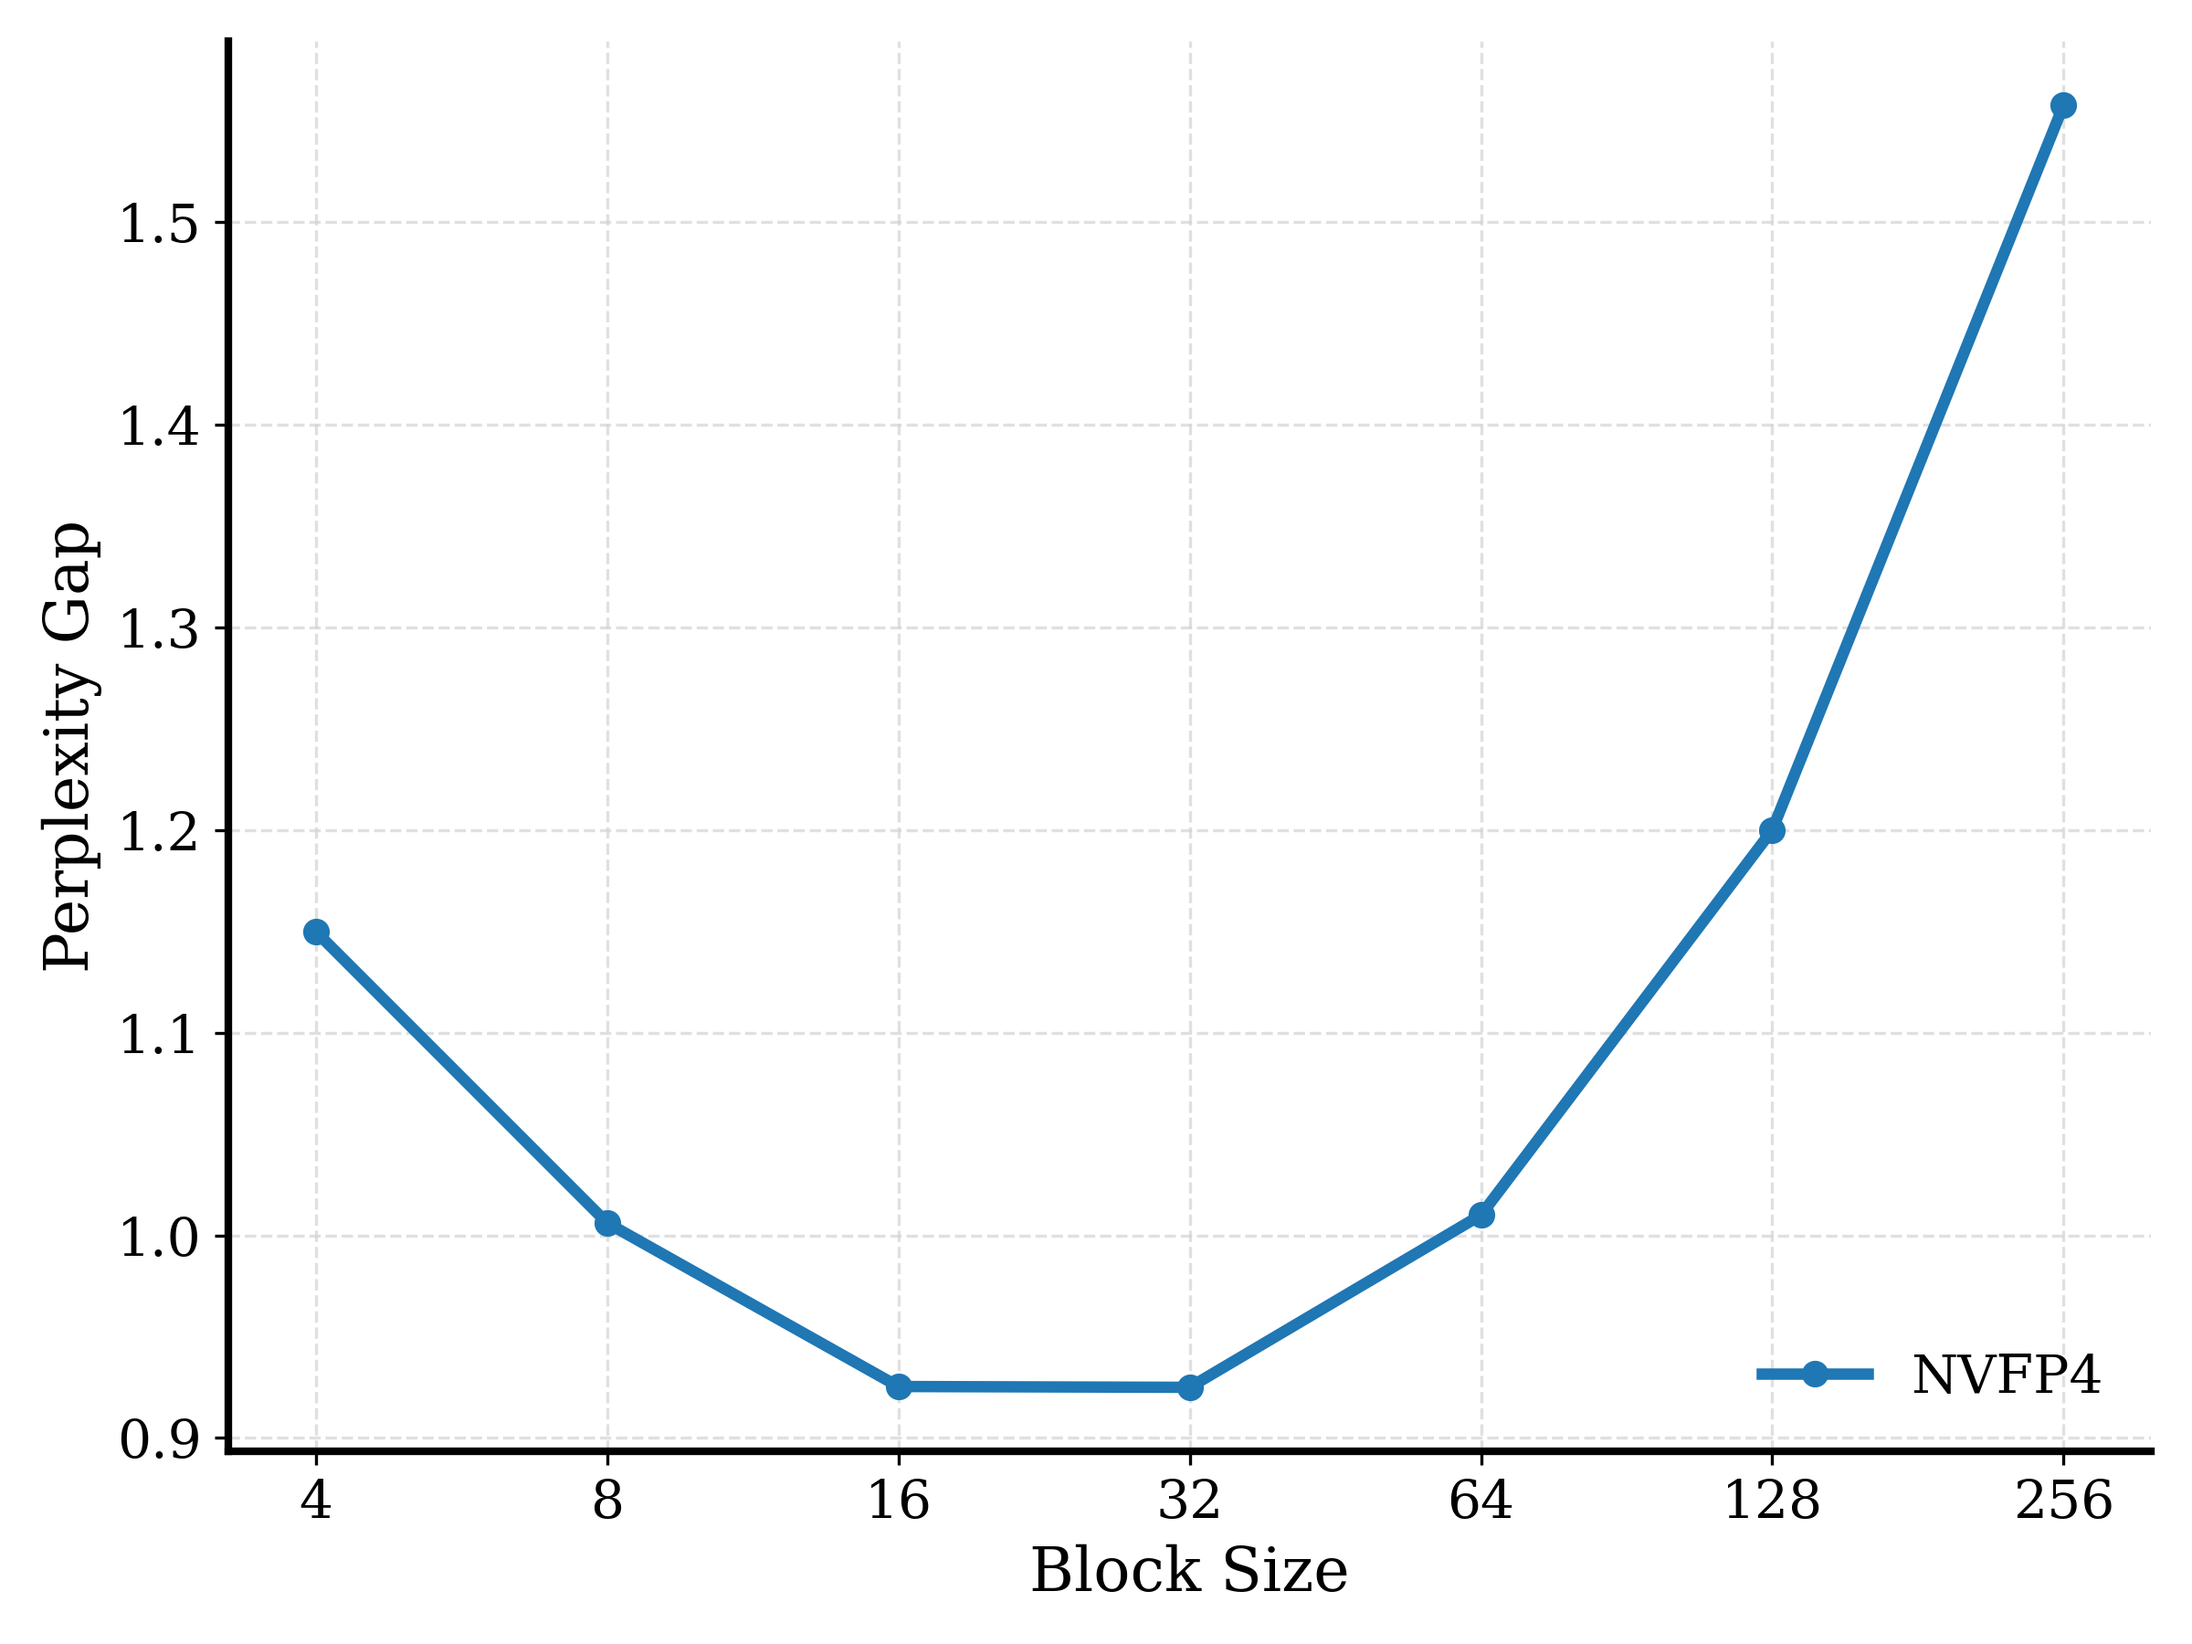
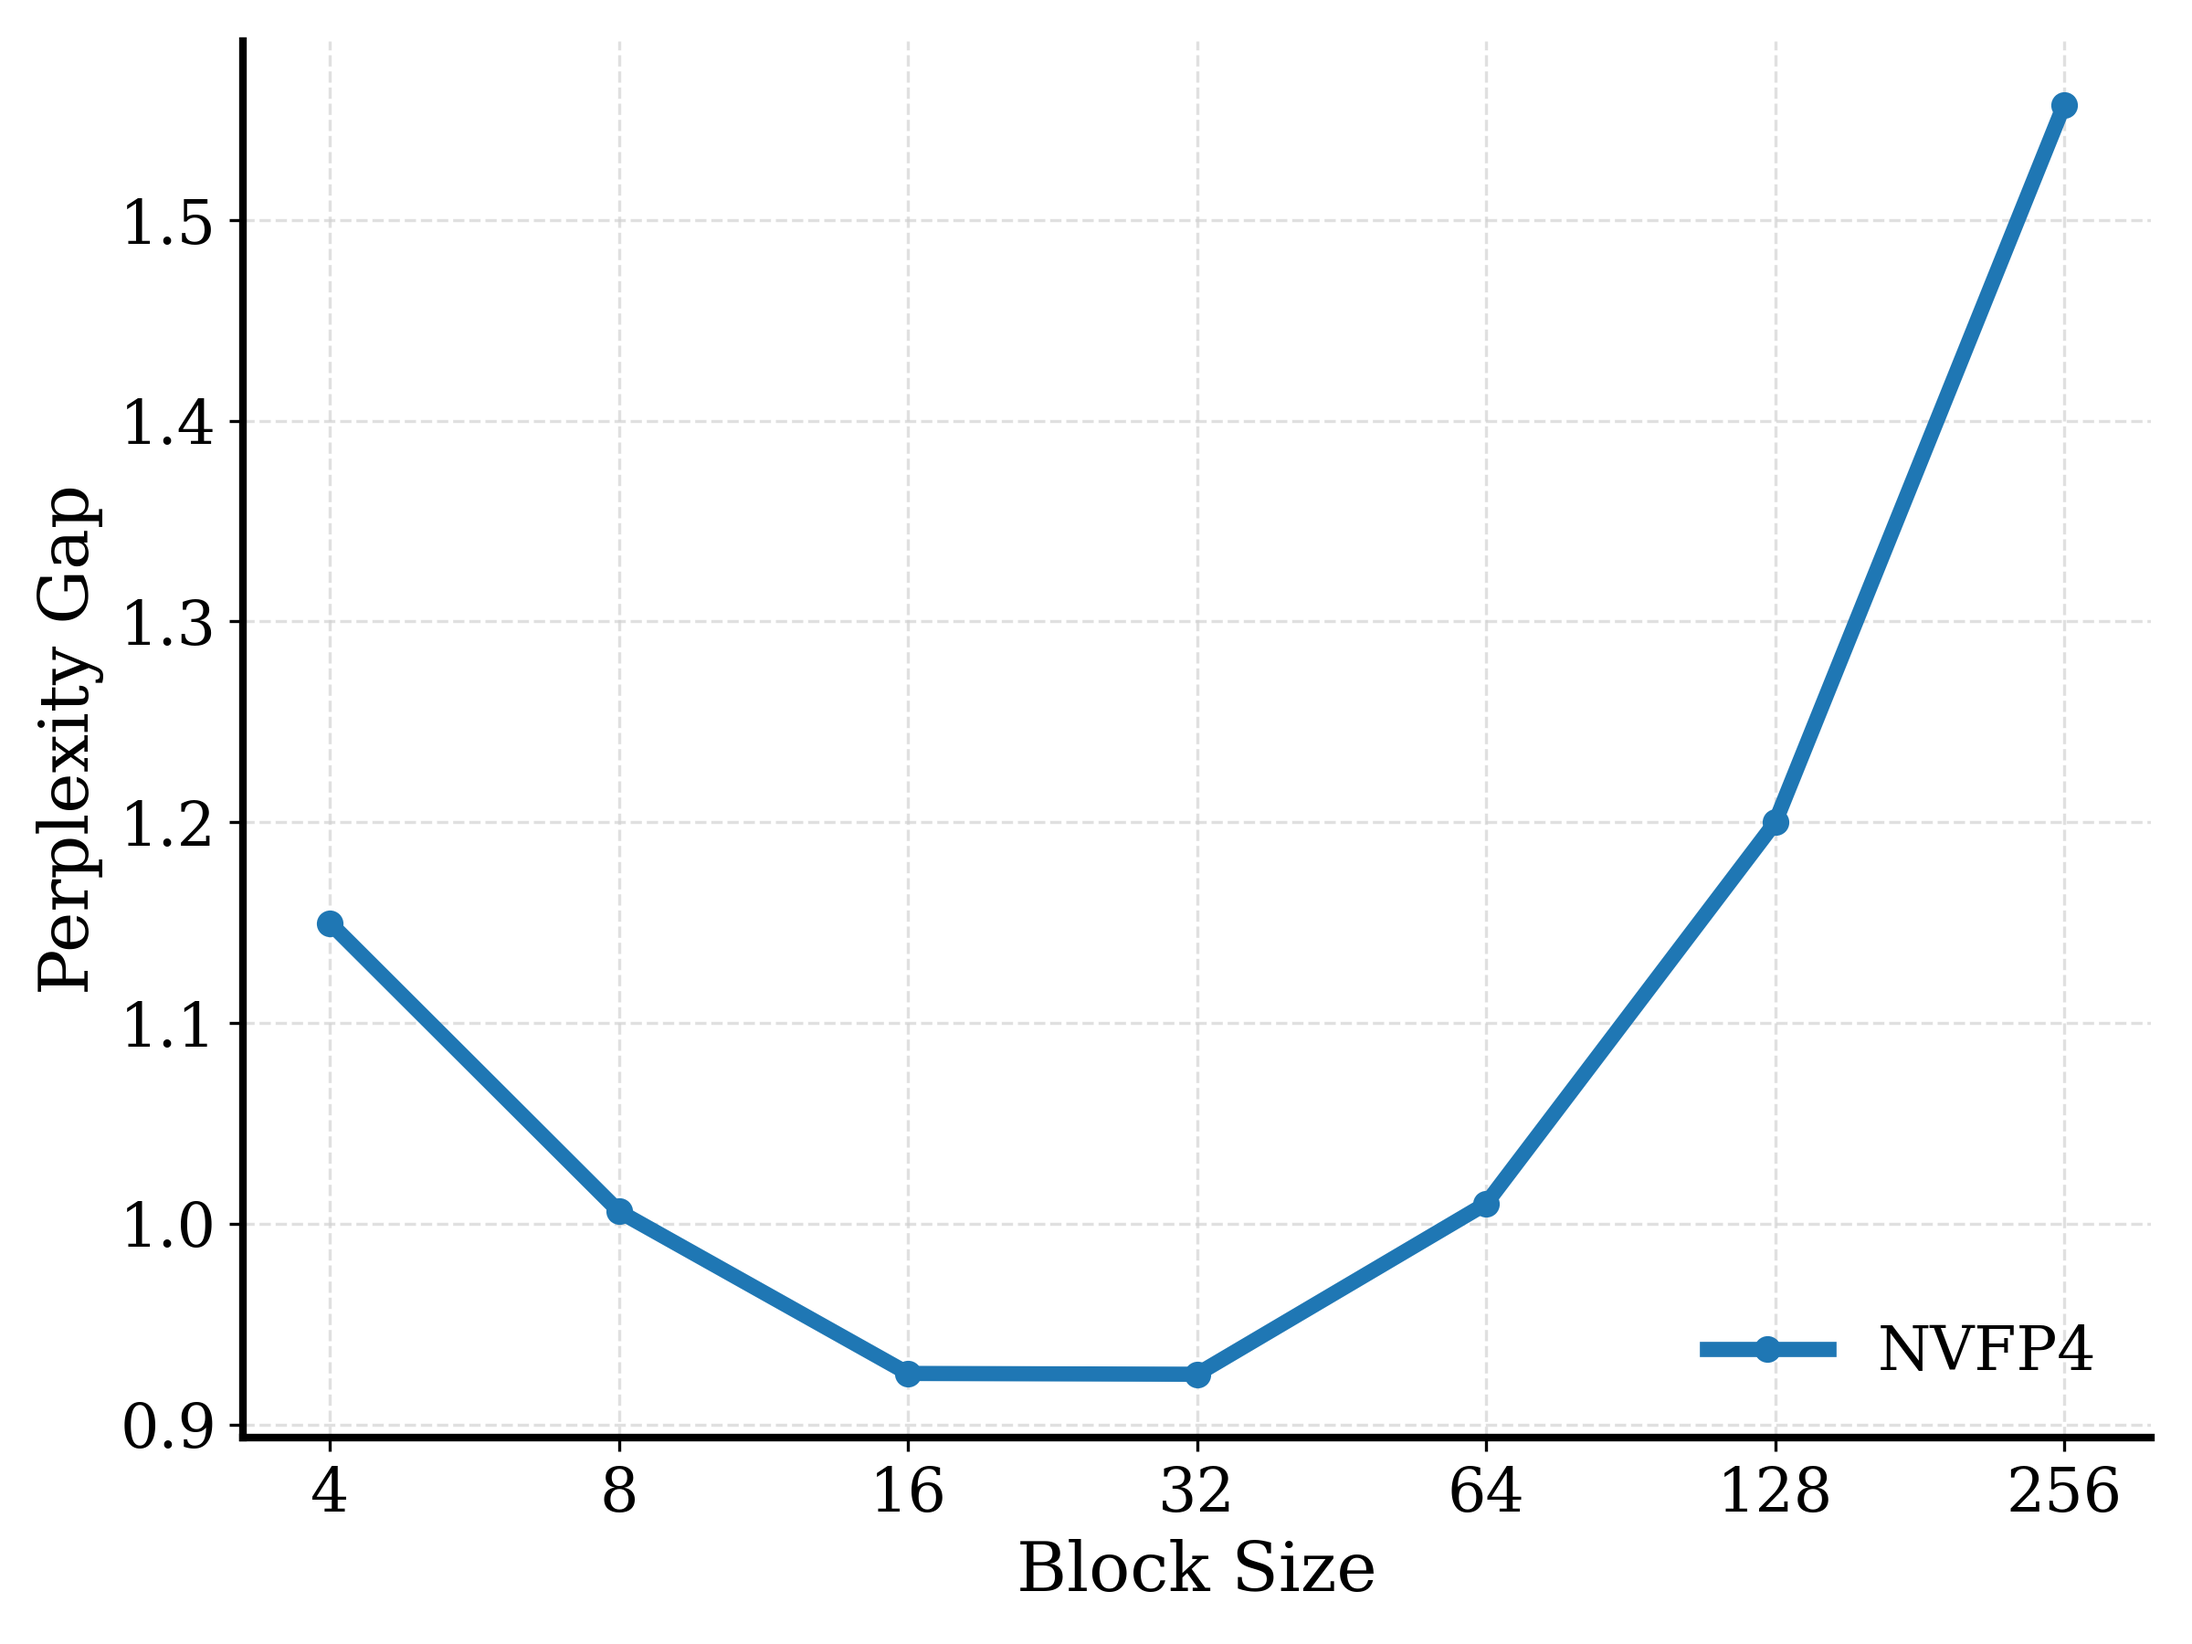
Updated plots with bolder lines and bigger font

diff --git a/test_scale_min.py b/test_scale_min.py
@@ -1,0 +1,59 @@
+import torch
+from mx.mx_ops import quantize_mx_op
+from mx import MxSpecs
+from mx.formats import _get_format_params
+
+def test_scale_min():
+    ebits, mbits, emax, max_norm, min_norm = _get_format_params("fp8_e4m3")
+    print(f"Min norm for FP8 scale: {min_norm}")
+    
+    x = torch.tensor([min_norm * 0.01, min_norm * 0.05], dtype=torch.float32).cuda()
+    print(f"Original x: {x}")
+    
+    specs_no_sm = MxSpecs(
+        scale_bits=8,
+        a_elem_format="fp4_e2m1",
+        block_size=2,
+        custom_cuda=True,
+        bfloat_subnorms=False,
+    )
+    
+    specs_sm = MxSpecs(
+        scale_bits=8,
+        a_elem_format="fp4_e2m1",
+        block_size=2,
+        custom_cuda=True,
+        bfloat_subnorms=False,
+        scale_min=min_norm,
+    )
+    
+    with torch.no_grad():
+        qx_no_sm = quantize_mx_op(
+            x.unsqueeze(0),
+            specs_no_sm,
+            elem_format="fp4_e2m1",
+            axes=[-1],
+            round=specs_no_sm["round_mx_output"],
+        )
+        print(f"Quantized without scale_min: {qx_no_sm}")
+        
+        qx_sm = quantize_mx_op(
+            x.unsqueeze(0),
+            specs_sm,
+            elem_format="fp4_e2m1",
+            axes=[-1],
+            round=specs_sm["round_mx_output"],
+        )
+        print(f"Quantized with scale_min: {qx_sm}")
+        
+        is_zero_no_sm = torch.allclose(qx_no_sm, torch.zeros_like(qx_no_sm))
+        is_zero_sm = torch.allclose(qx_sm, torch.zeros_like(qx_sm))
+        
+        print(f"Is zero without scale_min? {is_zero_no_sm}")
+        print(f"Is zero with scale_min? {is_zero_sm}")
+        
+        assert not is_zero_sm, "Prevent Zero failed! Scale min had no effect!"
+        print("Scale min test passed!")
+
+if __name__ == "__main__":
+    test_scale_min()

diff --git a/create_plots.py b/create_plots.py
@@ -28,18 +28,19 @@ def plot_model(model_name, df, output_path):
         plt.close()
         return
         
-    # Blue line with circles
-    plt.plot(plot_x, plot_y, marker="o", linestyle="-", linewidth=3, color="#1f77b4", label="NVFP4")
+    # Bolder line (linewidth=4)
+    plt.plot(plot_x, plot_y, marker="o", linestyle="-", linewidth=4, color="#1f77b4", label="NVFP4")
     
-    plt.xlabel("Block Size", fontsize=16)
-    plt.ylabel("Perplexity Gap", fontsize=16)
+    # Bigger font (fontsize=18)
+    plt.xlabel("Block Size", fontsize=18)
+    plt.ylabel("Perplexity Gap", fontsize=18)
     
     # Log scale on X axis (base 2)
     plt.xscale("log", base=2)
     
-    # X-ticks to match specific block sizes
-    plt.xticks(block_sizes, block_sizes, fontsize=14)
-    plt.yticks(fontsize=14)
+    # Bigger ticks (fontsize=16)
+    plt.xticks(block_sizes, block_sizes, fontsize=16)
+    plt.yticks(fontsize=16)
     
     plt.grid(True, linestyle="--", alpha=0.7, color="#d3d3d3")
     
@@ -51,8 +52,8 @@ def plot_model(model_name, df, output_path):
     ax.spines["left"].set_linewidth(2)
     ax.spines["left"].set_color("black")
     
-    # No legend frame
-    plt.legend(loc="lower right", fontsize=14, frameon=False)
+    # Bigger legend (fontsize=16)
+    plt.legend(loc="lower right", fontsize=16, frameon=False)
     plt.tight_layout()
     
     plt.savefig(output_path, dpi=300)
@@ -67,7 +68,6 @@ if __name__ == "__main__":
         
     df = pd.read_csv(csv_path, index_col=0)
     
-    # Create plots/ folder if it doesn't exist
     plots_dir = "/home/cjsschaefer_google_com/finer_is_better/plots"
     if not os.path.exists(plots_dir):
         os.makedirs(plots_dir)

diff --git a/nvfp4_eval.py b/nvfp4_eval.py
@@ -10,11 +10,14 @@ from mx import MxSpecs
 import pandas as pd
 import subprocess
 import os
+from mx.formats import _get_format_params
 
 # -------------------------------------------------------------------------
 # Quantization Logic - leveraging paper's fast ops
 # -------------------------------------------------------------------------
 def quantize_nvfp4(x, block_size):
+    ebits, mbits, emax, max_norm, min_norm = _get_format_params("fp8_e4m3")
+    
     mx_specs = MxSpecs(
         scale_bits=8,
         a_elem_format="fp4_e2m1",
@@ -22,6 +25,7 @@ def quantize_nvfp4(x, block_size):
         custom_cuda=True,
         a_scale_mode=152,
         w_scale_mode=152,
+        scale_min=min_norm,
     )
     
     init_shape = x.shape
@@ -117,7 +121,7 @@ def run_eval(model_id, block_size=None):
     return ppl.item()
 
 def update_csv_and_readme(model_id, bs, ppl, base_ppl):
-    path_csv = "/home/cjsschaefer_google_com/finer_is_better/results.csv"
+    path_csv = "/home/cjsschaefer_google_com/finer_is_better/results_pz.csv"
     if os.path.exists(path_csv):
         df = pd.read_csv(path_csv, index_col=0)
     else:
